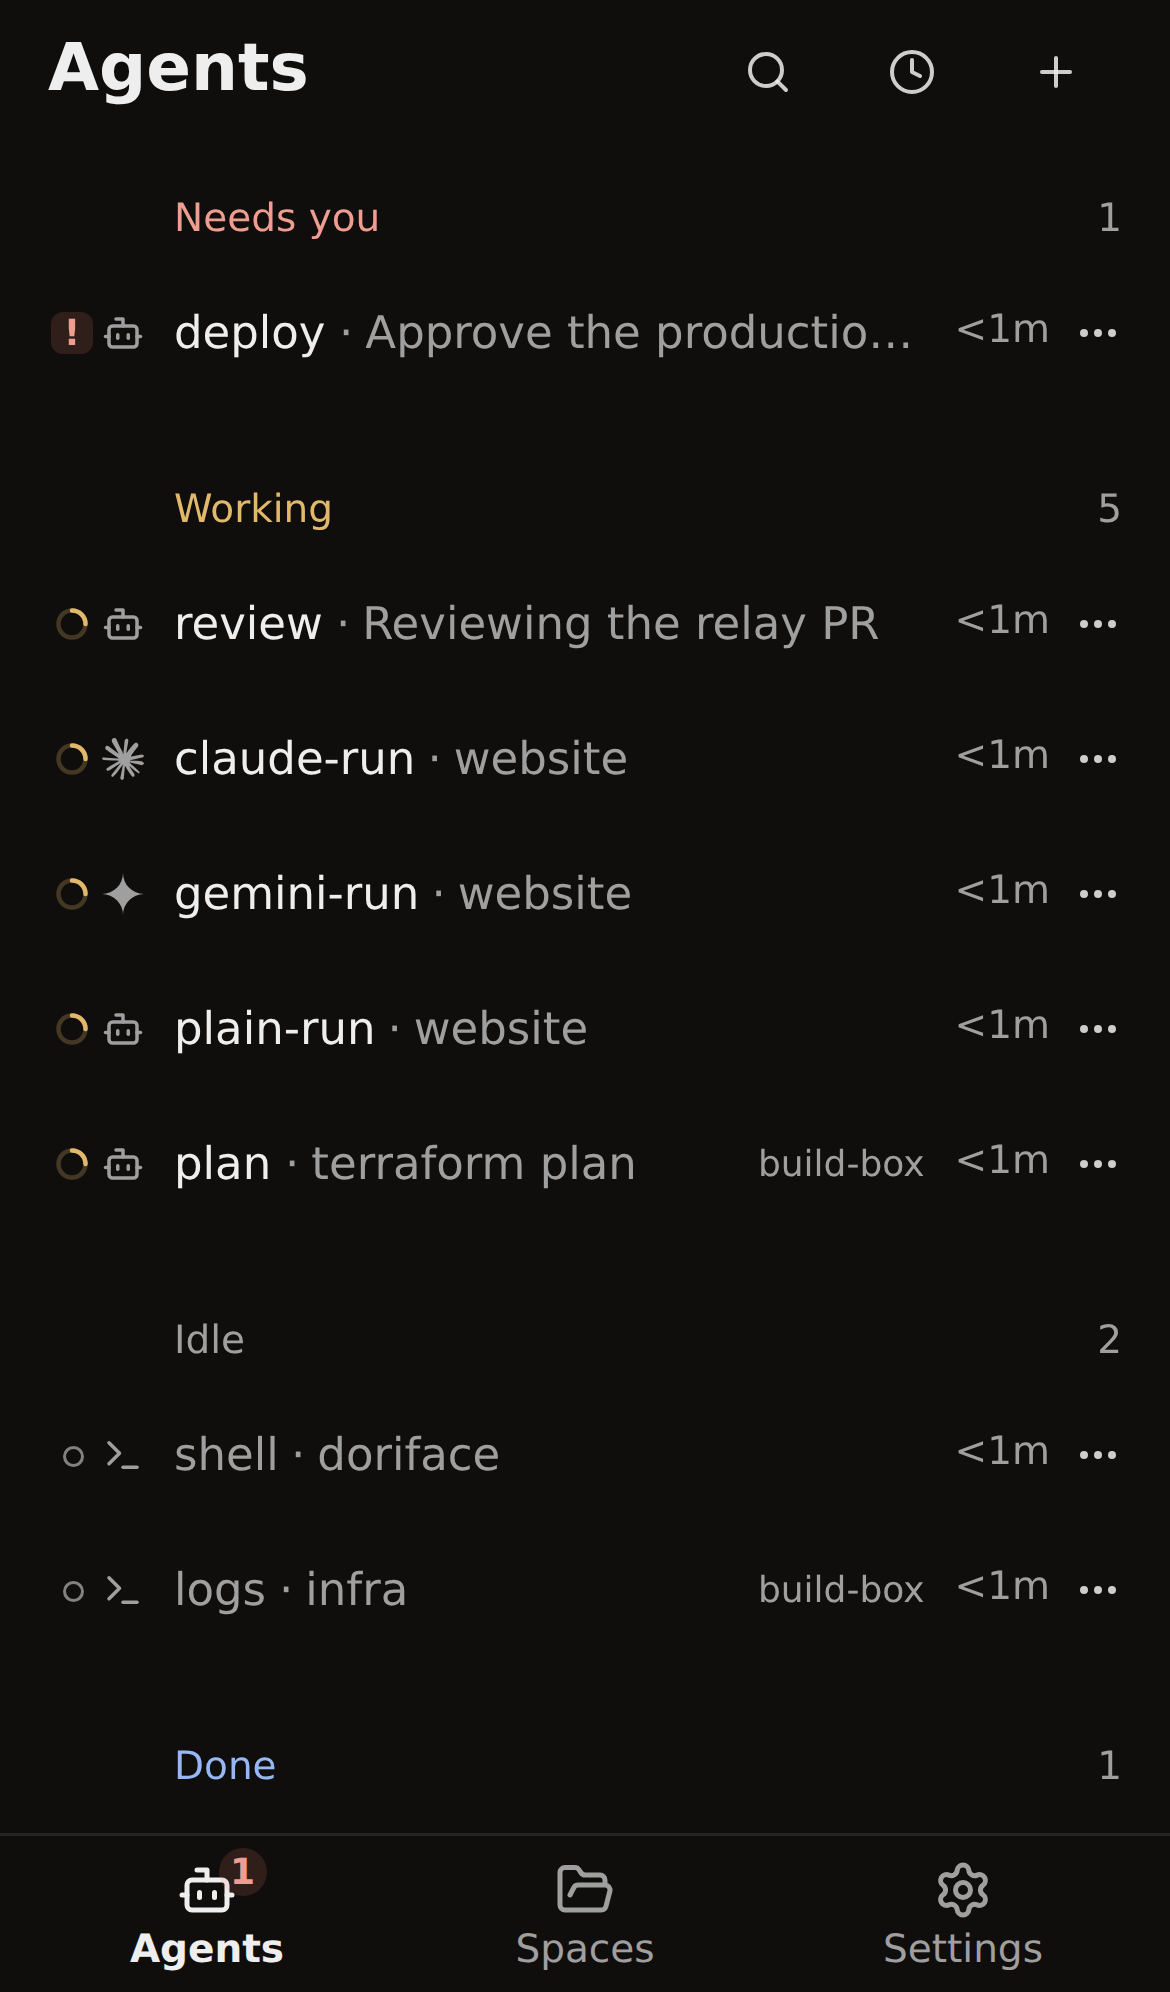
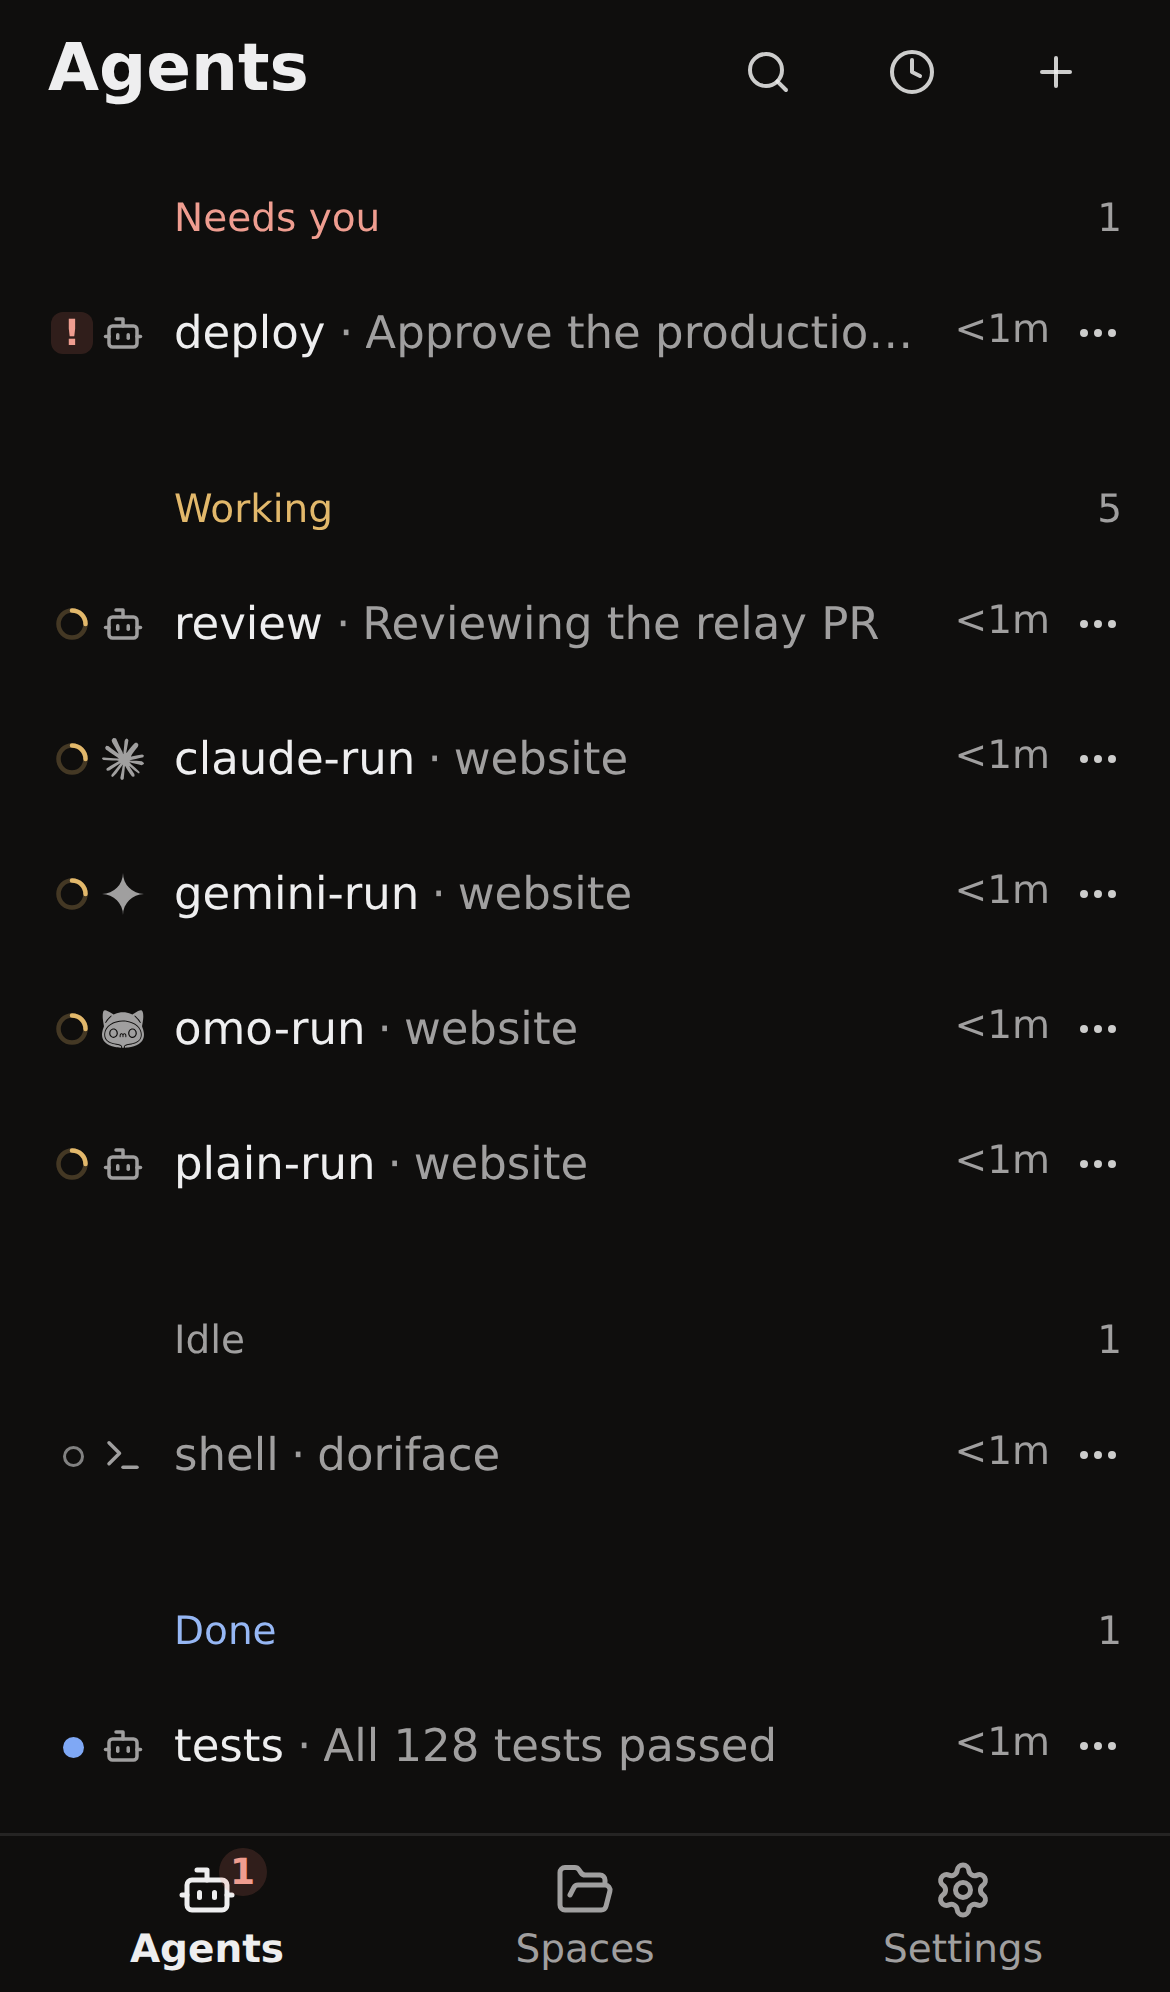
feat(ui): omo agents show omo's own cat mark instead of a stand-in (Part of #2746)

diff --git a/packages/ui/src/components/agent-marks.ts b/packages/ui/src/components/agent-marks.ts
@@ -1,25 +1,20 @@
-import {
-  Bot,
-  CodeXml,
-  Cpu,
-  Feather,
-  Mountain,
-  Orbit,
-  Pi,
-  SquareTerminal,
-  Terminal,
-  Zap,
-  type LucideIcon,
-} from "lucide-react";
+import { Bot, CodeXml, Cpu, Feather, Orbit, Pi, SquareTerminal, Terminal, Zap, type LucideIcon } from "lucide-react";
 
-/** One single-colour mark for what a terminal runs, from Simple Icons (CC0-1.0) or Lucide (ISC). */
+/** One single-colour mark for what a terminal runs, from Simple Icons (CC0-1.0), Lucide (ISC), or our own mark. */
 export type AgentMarkEntry =
   | { readonly label: string; readonly from: "simple-icons"; readonly slug: string; readonly path: string }
-  | { readonly label: string; readonly from: "lucide"; readonly name: string; readonly icon: LucideIcon };
+  | { readonly label: string; readonly from: "lucide"; readonly name: string; readonly icon: LucideIcon }
+  | {
+      readonly label: string;
+      readonly from: "own";
+      readonly viewBox: string;
+      readonly transform: string;
+      readonly path: string;
+    };
 
 /**
- * The 17 single-colour marks: seven Simple Icons 16.38.1 paths verbatim (viewBox 0 0 24 24), seven neutral Lucide
- * stand-ins for agents without a permissive mark, and the three generic glyphs (agent, shell, program).
+ * The 17 single-colour marks: seven Simple Icons 16.38.1 paths verbatim (viewBox 0 0 24 24), six neutral Lucide
+ * stand-ins for agents without a permissive mark, omo's own mark, and the three generic glyphs (agent, shell, program).
  * See `packages/ui/NOTICES.md` for sources and licences.
  */
 export const AGENT_MARKS: Readonly<Record<string, AgentMarkEntry>> = {
@@ -63,7 +58,13 @@ export const AGENT_MARKS: Readonly<Record<string, AgentMarkEntry>> = {
     path: "M21.765.351C22.998.351 24 1.353 24 2.586S22.998 4.82 21.765 4.82h-1.974c-.15 0-.26-.12-.26-.26V2.586A2.237 2.237 0 0 1 21.765.35M9.41 13.388l8.447-8.377c.16-.16.07-.471-.14-.471h-4.55s-.1.02-.14.06l-9.099 9.029c-.14.14-.35.02-.35-.21V4.81c0-.15-.1-.27-.221-.27H.22c-.12 0-.22.12-.22.27v18.57c0 .15.1.27.22.27h3.137c.12 0 .22-.12.22-.27v-3.79c0-.08.03-.16.08-.21l2.826-2.796c.07-.07.16-.08.241-.03l7.546 5.551a8.9 8.9 0 0 0 4.018 1.493c.12.01.23-.11.23-.27V19.76c0-.14-.08-.25-.19-.26a5.8 5.8 0 0 1-2.355-.942l-6.533-4.73c-.14-.09-.15-.32-.03-.441",
   },
   antigravity: { label: "Antigravity", from: "lucide", name: "feather", icon: Feather },
-  omo: { label: "omo", from: "lucide", name: "mountain", icon: Mountain },
+  omo: {
+    label: "omo",
+    from: "own",
+    viewBox: "189.5 185 645 645",
+    transform: "scale(0.5) translate(0 2048) scale(0.05 -0.05)",
+    path: "M9270 32167 c-309 -64 -456 -152 -621 -373 -562 -748 -776 -2689\n-547 -4984 118 -1187 325 -2600 570 -3890 143 -753 152 -653 -128 -1380 -403\n-1045 -643 -1873 -812 -2800 -853 -4689 1979 -7986 7858 -9148 1140 -225 2514\n-397 3202 -400 l361 -2 79 55 c264 182 210 642 -111 942 -387 362 -950 532\n-2801 845 -3004 507 -4249 965 -5520 2030 -1358 1138 -2012 2878 -1809 4810\n545 5195 6617 8726 13529 7866 5506 -684 9480 -4255 9480 -8518 0 -2607 -1462\n-4522 -4157 -5448 -927 -318 -1534 -459 -3203 -740 -1851 -313 -2414 -483\n-2801 -845 -321 -300 -375 -760 -111 -942 l79 -55 361 2 c688 3 2062 175 3202\n400 5879 1162 8711 4459 7858 9148 -169 927 -409 1755 -812 2800 -280 727\n-271 627 -128 1380 245 1290 452 2703 570 3890 271 2720 -77 4861 -855 5259\n-758 388 -2310 -238 -5021 -2024 -868 -571 -764 -557 -1489 -211 -3271 1558\n-6755 1558 -10026 0 -725 -346 -621 -360 -1489 211 -2371 1562 -3959 2278\n-4708 2122z m4132 -3345 c175 -175 124 -268 -409 -739 -1028 -910 -1995 -2053\n-2713 -3209 -97 -156 -200 -318 -228 -359 -221 -321 -646 -76 -469 270 153\n301 883 1334 1388 1965 578 723 1466 1614 2029 2035 191 142 288 151 402 37z\nm14507 -1 c496 -341 1482 -1323 2080 -2071 505 -631 1235 -1664 1388 -1965\n177 -346 -248 -591 -469 -270 -28 41 -131 203 -228 359 -718 1156 -1685 2299\n-2713 3209 -535 473 -585 564 -407 742 100 100 199 99 349 -4z M19910 25308 c-4039 -205 -7212 -1666 -9086 -4184 -1840 -2473 -1753\n-5794 196 -7540 1161 -1040 2447 -1518 5420 -2015 1374 -229 1998 -380 2456\n-591 754 -348 1163 -1000 1033 -1650 -10 -49 -1 -72 47 -124 l60 -64 444 0\n444 0 60 64 c48 52 57 75 47 124 -130 650 279 1302 1033 1650 458 211 1082\n362 2456 591 2973 497 4259 975 5420 2015 2084 1866 2026 5374 -131 7956\n-2063 2469 -5995 3966 -9899 3768z m-4644 -4374 c1356 -360 2272 -1909 1998\n-3378 -426 -2278 -2856 -3144 -4424 -1576 -1497 1496 -924 4218 1031 4899 393\n137 996 161 1395 55z m11480 35 c1491 -261 2504 -1921 2154 -3532 -487 -2247\n-3108 -3024 -4525 -1341 -1719 2042 -129 5310 2371 4873z m-6948 -2980 c172\n-40 341 -133 495 -273 95 -86 143 -116 187 -116 44 0 92 30 187 116 718 650\n1716 188 1854 -860 35 -267 18 -968 -25 -1048 -119 -219 -350 -251 -491 -68\n-68 89 -73 124 -85 670 -13 623 -25 675 -200 838 -212 198 -516 199 -735 2\n-180 -161 -192 -212 -205 -840 -12 -546 -17 -581 -85 -670 -122 -159 -308\n-159 -430 0 -68 89 -73 124 -85 670 -13 628 -25 679 -205 840 -219 197 -523\n196 -735 -2 -175 -163 -187 -215 -200 -838 -12 -546 -17 -581 -85 -670 -141\n-183 -372 -151 -491 68 -74 136 -54 1039 30 1332 170 594 758 978 1304 849z M14340 20290 c-1858 -372 -2230 -3228 -546 -4191 1280 -732 2786 338\n2786 1981 0 1391 -1068 2445 -2240 2210z M25990 20291 c-1733 -343 -2208 -2981 -732 -4069 1287 -949 2981 108\n2982 1860 0 1392 -1070 2443 -2250 2209z",
+  },
   omp: { label: "omp", from: "lucide", name: "pi", icon: Pi },
   droid: { label: "Droid", from: "lucide", name: "cpu", icon: Cpu },
   qwen: {

diff --git a/packages/ui/src/components/agent-mark.tsx b/packages/ui/src/components/agent-mark.tsx
@@ -17,21 +17,42 @@ export function AgentMark({ kind, size = 16, className, decorative = false }: Ag
   if (entry === undefined) return null;
   const classes = cn("shrink-0", className);
   const named = decorative ? ({ "aria-hidden": true } as const) : ({ role: "img", "aria-label": entry.label } as const);
-  if (entry.from === "simple-icons") {
-    return (
-      <svg
-        {...named}
-        viewBox="0 0 24 24"
-        width={size}
-        height={size}
-        fill="currentColor"
-        data-agent-mark={kind}
-        className={classes}
-      >
-        <path d={entry.path} />
-      </svg>
-    );
+  switch (entry.from) {
+    case "simple-icons":
+      return (
+        <svg
+          {...named}
+          viewBox="0 0 24 24"
+          width={size}
+          height={size}
+          fill="currentColor"
+          data-agent-mark={kind}
+          className={classes}
+        >
+          <path d={entry.path} />
+        </svg>
+      );
+    case "own":
+      return (
+        <svg
+          {...named}
+          viewBox={entry.viewBox}
+          width={size}
+          height={size}
+          fill="currentColor"
+          data-agent-mark={kind}
+          className={classes}
+        >
+          <path d={entry.path} fillRule="evenodd" transform={entry.transform} />
+        </svg>
+      );
+    case "lucide": {
+      const Icon = entry.icon;
+      return <Icon {...named} data-agent-mark={kind} width={size} height={size} className={classes} />;
+    }
+    default: {
+      const exhaustive: never = entry;
+      return exhaustive;
+    }
   }
-  const Icon = entry.icon;
-  return <Icon {...named} data-agent-mark={kind} width={size} height={size} className={classes} />;
 }

diff --git a/apps/web/e2e/capture-shots.ts b/apps/web/e2e/capture-shots.ts
@@ -407,19 +407,22 @@ export const SHOTS: readonly Shot[] = [
     },
   },
   {
-    // Per-agent marks in the sidebar and phone Agents list: Claude, Gemini and a plain agent (#2746).
+    // Per-agent marks in the sidebar and phone Agents list: Claude, Gemini, omo and a plain agent (#2746).
     name: "agent-icons",
     start: "connected",
     run: async (page) => {
       const claude = startAppAgent("claude-run", "working", "claude");
       const gemini = startAppAgent("gemini-run", "working", "gemini");
+      const omo = startAppAgent("omo-run", "working", "omo");
       const plain = startAgent("host", "plain-run", "working", "website");
-      iconShot = [claude, gemini, plain];
+      iconShot = [claude, gemini, omo, plain];
       await page.goto("/");
       const working = page.getByRole("region", { name: "Working", exact: true });
       await expect(working.locator('[data-floor="name"][title="claude-run"]')).toBeVisible({ timeout: 20_000 });
       await expect(working.locator('[data-floor="name"][title="gemini-run"]')).toBeVisible({ timeout: 20_000 });
+      await expect(working.locator('[data-floor="name"][title="omo-run"]')).toBeVisible({ timeout: 20_000 });
       await expect(working.locator('[data-floor="name"][title="plain-run"]')).toBeVisible({ timeout: 20_000 });
+      await expect(working.getByRole("img", { name: "omo" })).toBeVisible();
       await expect(working.getByRole("img", { name: "Claude" })).toBeVisible();
       await expect(working.getByRole("img", { name: "Gemini" })).toBeVisible();
       await expect(working.getByRole("img", { name: "Agent" }).first()).toBeVisible();

diff --git a/packages/ui/src/components/agent-marks.test.tsx b/packages/ui/src/components/agent-marks.test.tsx
@@ -60,6 +60,17 @@ describe("AGENT_MARKS", () => {
     expect(renderToStaticMarkup(<AgentMark kind="toString" />)).toBe("");
   });
 
+  test("omo draws its own cat mark: the glyph path alone, framed tight, single colour, holes kept by evenodd", () => {
+    const entry = AGENT_MARKS["omo"];
+    expect(entry?.from).toBe("own");
+    const markup = renderToStaticMarkup(<AgentMark kind="omo" />);
+    expect(readAttr(markup, "viewBox")).toBe("189.5 185 645 645");
+    expect(readAttr(markup, "fill")).toBe("currentColor");
+    expect(readAttr(markup, "fill-rule")).toBe("evenodd");
+    expect(readAttr(markup, "d")).toMatch(/^M9270 32167 c-309 -64/u);
+    expect(markup).not.toMatch(/#[0-9a-fA-F]{3,8}\b/u);
+  });
+
   test("packages/ui/NOTICES.md lists every mark in AGENT_MARKS and no extra key", () => {
     const listed = noticedKinds(NOTICES);
     const expected = Object.keys(AGENT_MARKS);

diff --git a/packages/ui/NOTICES.md b/packages/ui/NOTICES.md
@@ -1,28 +1,28 @@
 # Agent mark notices
 
-`@doriface/ui` draws a single-colour mark for what each terminal runs (`src/components/agent-marks.ts`). Every drawing comes from Simple Icons 16.38.1 or Lucide (`lucide-react`).
+`@doriface/ui` draws a single-colour mark for what each terminal runs (`src/components/agent-marks.ts`). Every drawing comes from Simple Icons 16.38.1, Lucide (`lucide-react`), or our own omo mark.
 
-| kind        | source                                        | upstream name                  | licence       |
-| ----------- | --------------------------------------------- | ------------------------------ | ------------- |
-| claude      | Simple Icons 16.38.1                          | `claude`                       | CC0-1.0       |
-| codex       | Lucide                                        | `code-xml`                     | ISC           |
-| cursor      | Simple Icons 16.38.1                          | `cursor`                       | CC0-1.0       |
-| copilot     | Simple Icons 16.38.1 (GitHub Primer Octicons) | `githubcopilot` (`copilot-24`) | CC0-1.0 / MIT |
-| gemini      | Simple Icons 16.38.1                          | `googlegemini`                 | CC0-1.0       |
-| grok        | Lucide                                        | `orbit`                        | ISC           |
-| opencode    | Simple Icons 16.38.1                          | `opencode`                     | CC0-1.0       |
-| amp         | Lucide                                        | `zap`                          | ISC           |
-| kimi        | Simple Icons 16.38.1                          | `kimi`                         | CC0-1.0       |
-| antigravity | Lucide (Feather)                              | `feather`                      | ISC / MIT     |
-| omo         | Lucide                                        | `mountain`                     | ISC           |
-| omp         | Lucide                                        | `pi`                           | ISC           |
-| droid       | Lucide                                        | `cpu`                          | ISC           |
-| qwen        | Simple Icons 16.38.1                          | `qwen`                         | CC0-1.0       |
-| agent       | Lucide                                        | `bot`                          | ISC           |
-| shell       | Lucide (Feather)                              | `terminal`                     | ISC / MIT     |
-| program     | Lucide                                        | `square-terminal`              | ISC           |
+| kind        | source                                        | upstream name                                         | licence       |
+| ----------- | --------------------------------------------- | ----------------------------------------------------- | ------------- |
+| claude      | Simple Icons 16.38.1                          | `claude`                                              | CC0-1.0       |
+| codex       | Lucide                                        | `code-xml`                                            | ISC           |
+| cursor      | Simple Icons 16.38.1                          | `cursor`                                              | CC0-1.0       |
+| copilot     | Simple Icons 16.38.1 (GitHub Primer Octicons) | `githubcopilot` (`copilot-24`)                        | CC0-1.0 / MIT |
+| gemini      | Simple Icons 16.38.1                          | `googlegemini`                                        | CC0-1.0       |
+| grok        | Lucide                                        | `orbit`                                               | ISC           |
+| opencode    | Simple Icons 16.38.1                          | `opencode`                                            | CC0-1.0       |
+| amp         | Lucide                                        | `zap`                                                 | ISC           |
+| kimi        | Simple Icons 16.38.1                          | `kimi`                                                | CC0-1.0       |
+| antigravity | Lucide (Feather)                              | `feather`                                             | ISC / MIT     |
+| omo         | omo (Sisyphus Labs), our own mark             | `packages/web/public/brand/omo-mark.svg` (glyph path) | own           |
+| omp         | Lucide                                        | `pi`                                                  | ISC           |
+| droid       | Lucide                                        | `cpu`                                                 | ISC           |
+| qwen        | Simple Icons 16.38.1                          | `qwen`                                                | CC0-1.0       |
+| agent       | Lucide                                        | `bot`                                                 | ISC           |
+| shell       | Lucide (Feather)                              | `terminal`                                            | ISC / MIT     |
+| program     | Lucide                                        | `square-terminal`                                     | ISC           |
 
-The Lucide glyphs for `codex`, `grok`, `amp`, `antigravity`, `omo`, `omp` and `droid` are neutral stand-ins and not those projects' logos.
+The Lucide glyphs for `codex`, `grok`, `amp`, `antigravity`, `omp` and `droid` are neutral stand-ins and not those projects' logos.
 
 These licences cover the drawings only. Product names and logos are trademarks of their owners; no trademark rights are granted, and their use here only identifies the program a terminal runs.
 
@@ -67,3 +67,9 @@ Permission is hereby granted, free of charge, to any person obtaining a copy of 
 The above copyright notice and this permission notice shall be included in all copies or substantial portions of the Software.
 
 THE SOFTWARE IS PROVIDED "AS IS", WITHOUT WARRANTY OF ANY KIND, EXPRESS OR IMPLIED, INCLUDING BUT NOT LIMITED TO THE WARRANTIES OF MERCHANTABILITY, FITNESS FOR A PARTICULAR PURPOSE AND NONINFRINGEMENT. IN NO EVENT SHALL THE AUTHORS OR COPYRIGHT HOLDERS BE LIABLE FOR ANY CLAIM, DAMAGES OR OTHER LIABILITY, WHETHER IN AN ACTION OF CONTRACT, TORT OR OTHERWISE, ARISING FROM, OUT OF OR IN CONNECTION WITH THE SOFTWARE OR THE USE OR OTHER DEALINGS IN THE SOFTWARE.
+
+## omo
+
+Source: `github.com/code-yeongyu/oh-my-openagent`, `packages/web/public/brand/omo-mark.svg` at commit `c9b324948d` (our own product's mark, Sisyphus Labs).
+
+Only the glyph path is embedded; the rounded-square background is dropped and the mark is drawn in `currentColor`.

diff --git a/changes/unreleased/omo-agent-mark.md b/changes/unreleased/omo-agent-mark.md
@@ -1,0 +1,3 @@
+### Workspace
+
+- omo agents now show omo's own cat mark instead of a placeholder, in the agents list, tabs and on the phone. (#TBD)
